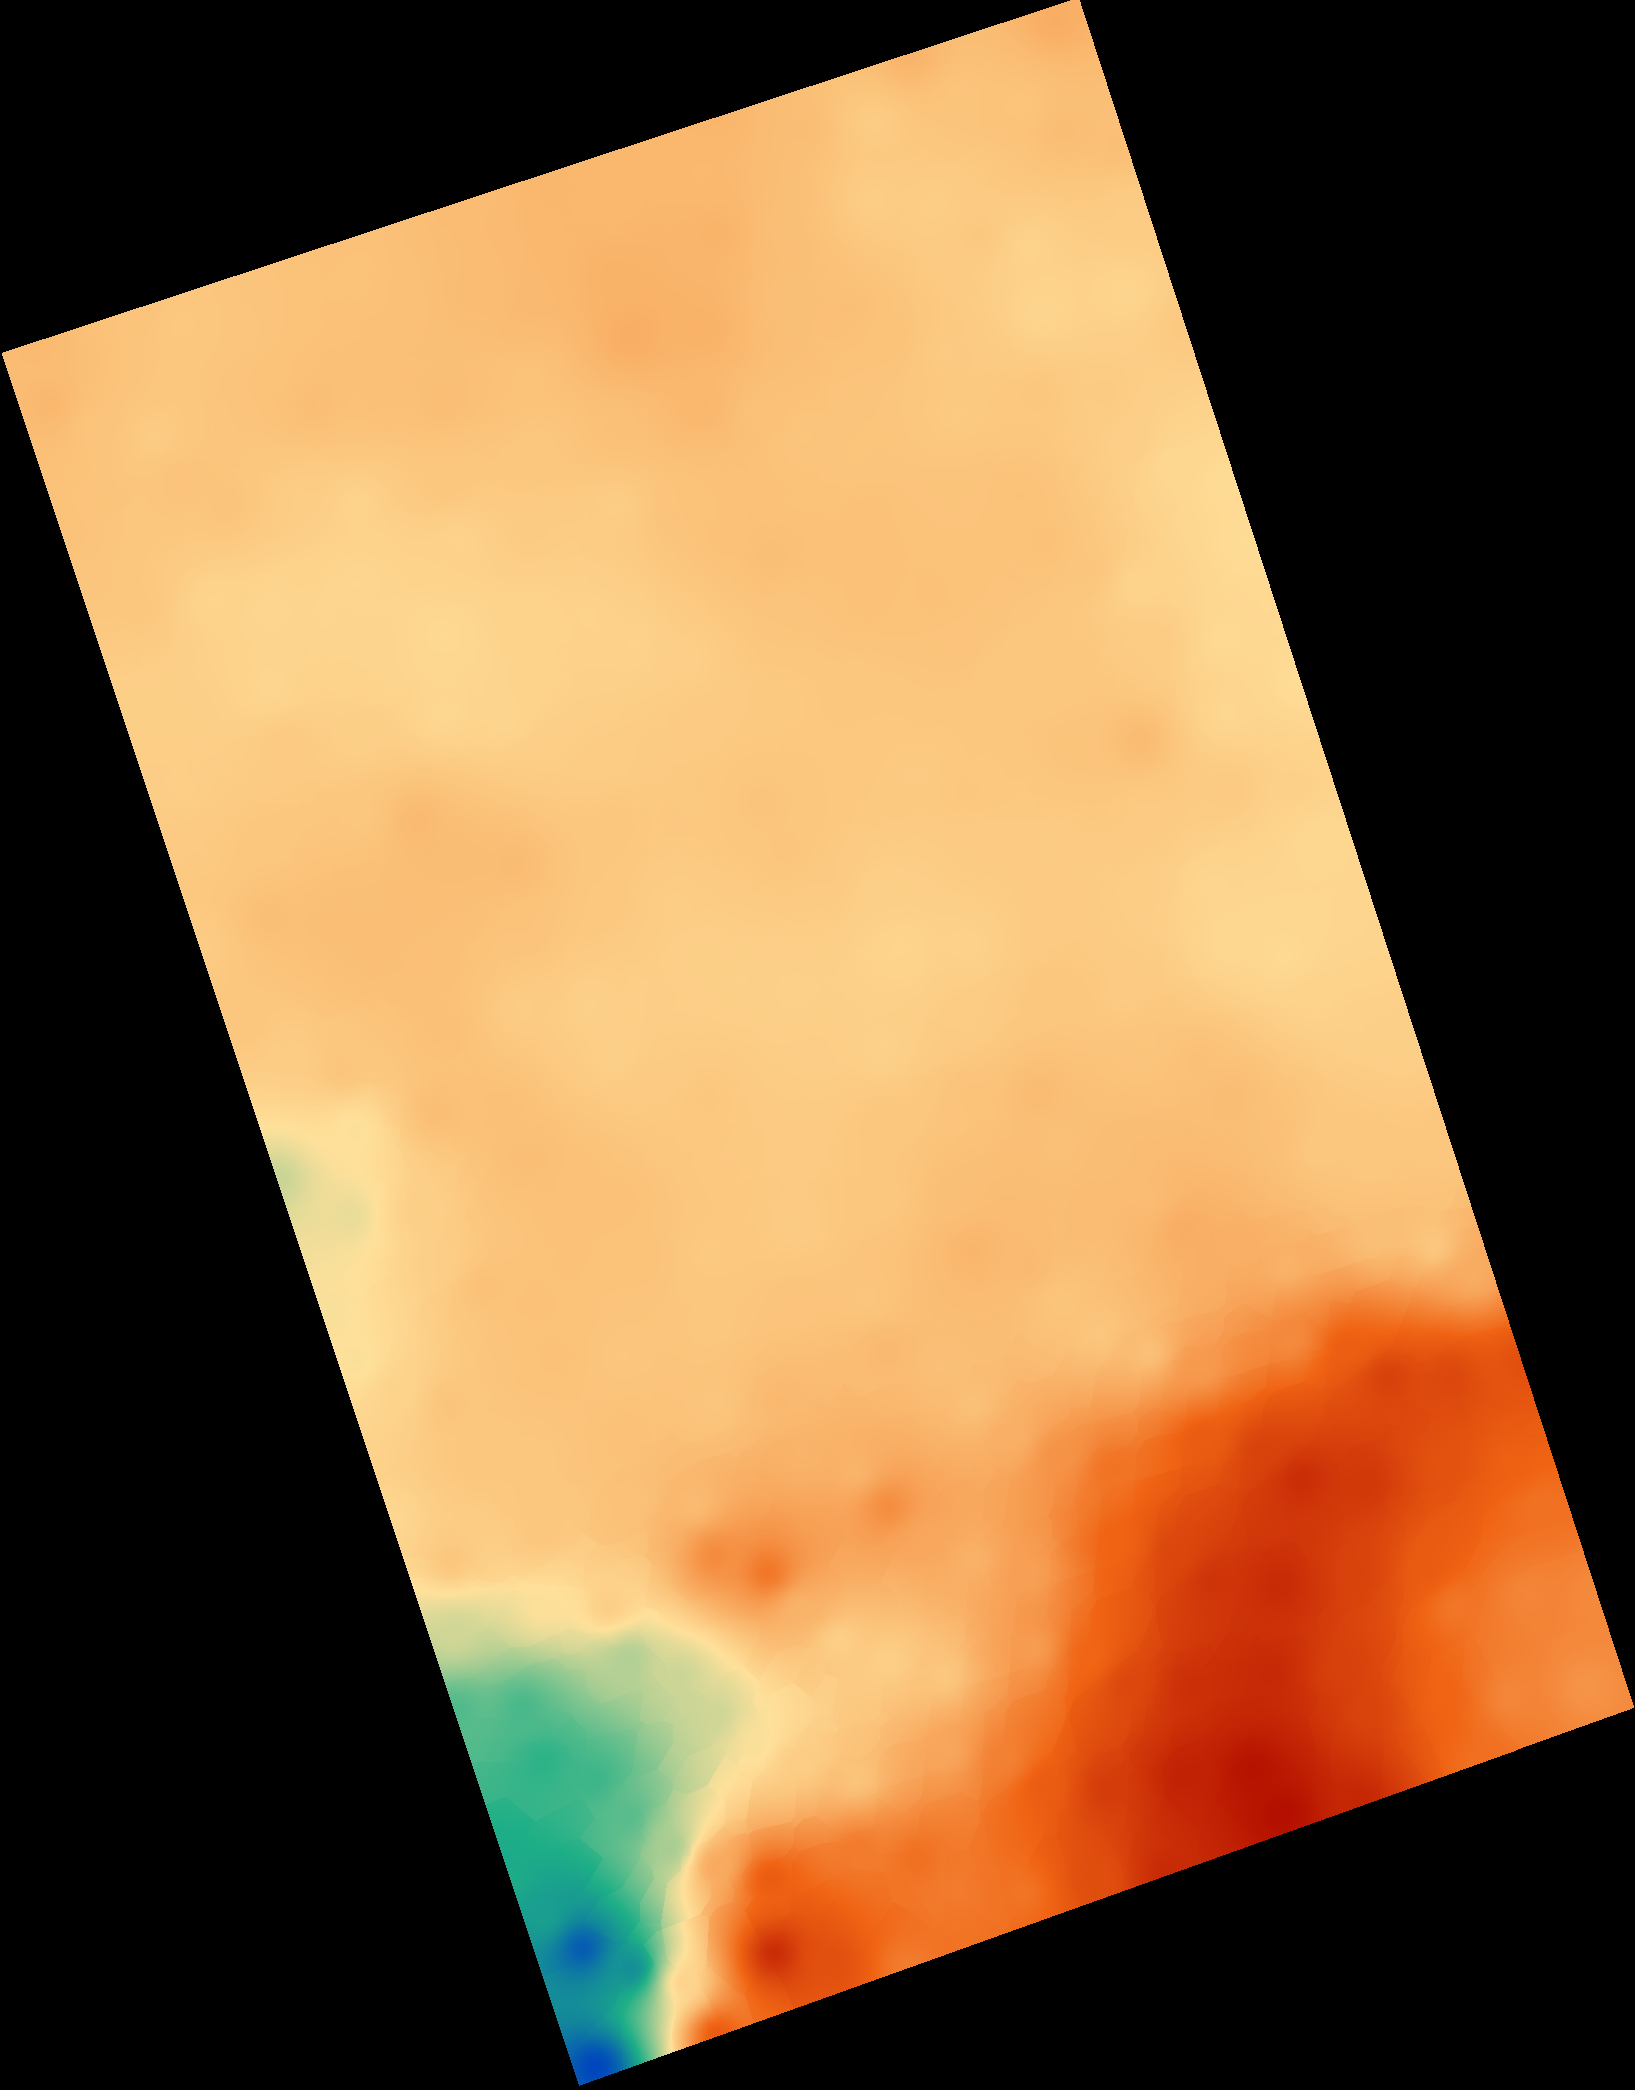
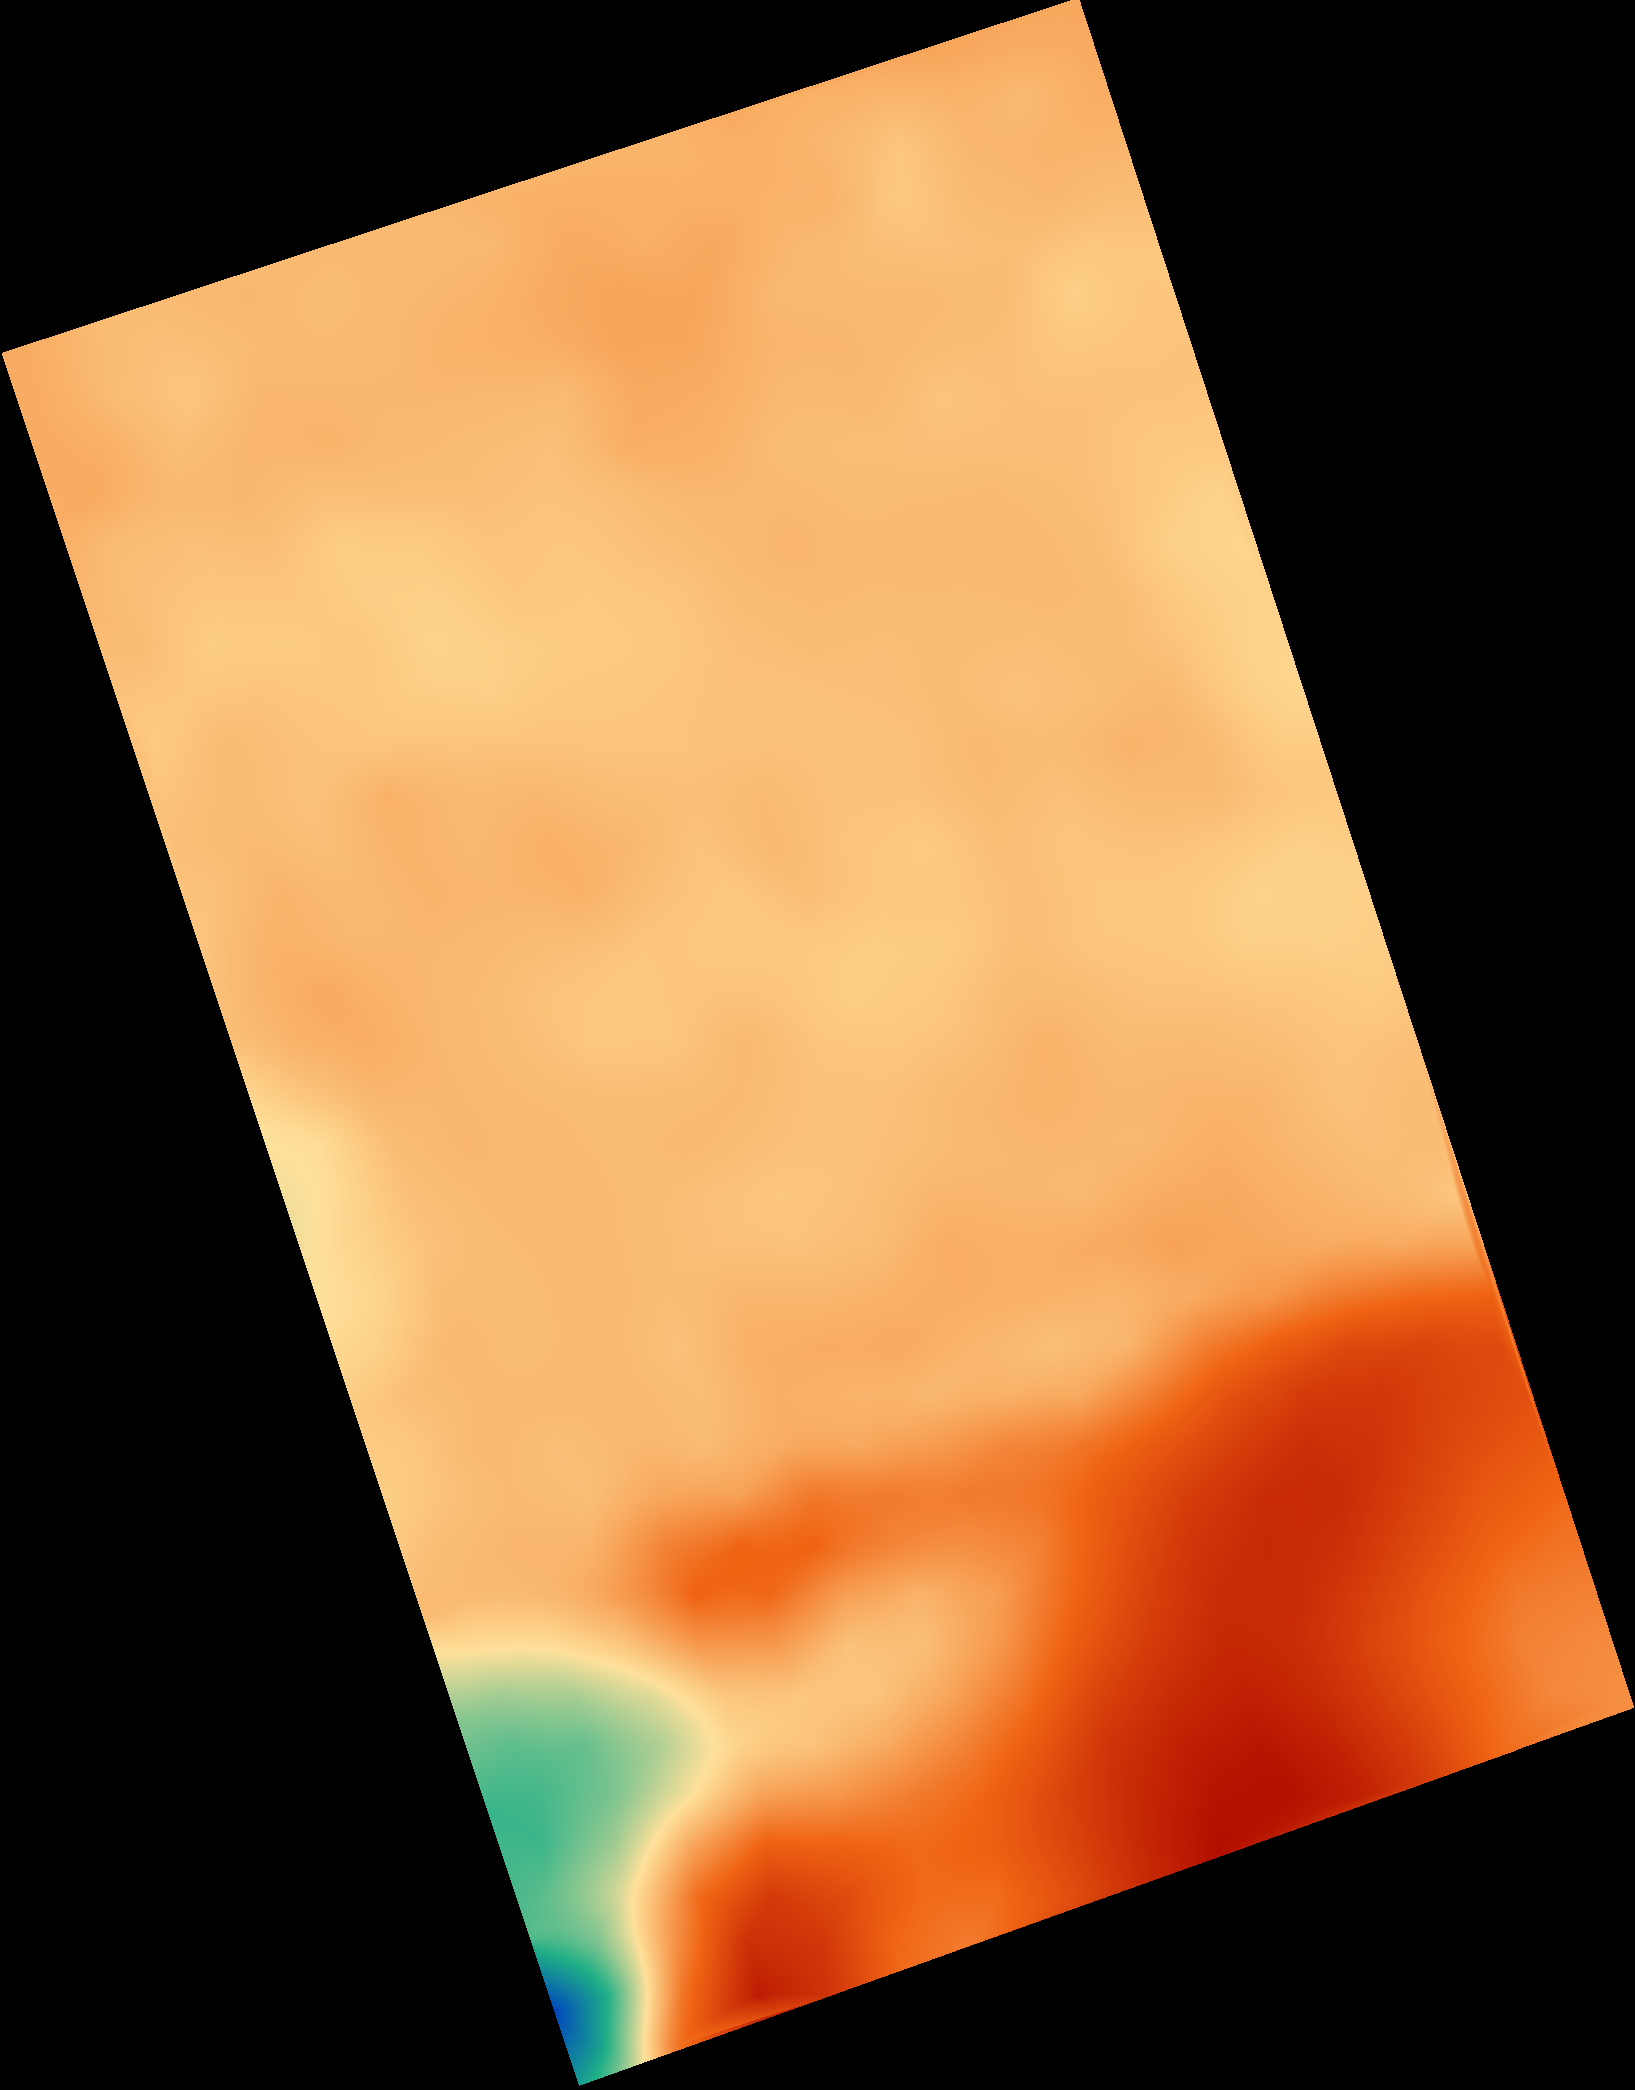
Cambiando metodo interpolacion

diff --git a/simulations/src/processing/interpolation.rs b/simulations/src/processing/interpolation.rs
@@ -1,6 +1,7 @@
 use kiddo::KdTree;
 use kiddo::SquaredEuclidean;
 use kiddo::NearestNeighbour;
+use spade::{DelaunayTriangulation, FloatTriangulation, HasPosition, Point2, PositionInTriangulation, Triangulation};
 use crate::structs::depth_matrix::DepthMatrix;
 
 // ------------------------------------------------------------
@@ -11,6 +12,7 @@ use crate::structs::depth_matrix::DepthMatrix;
 pub enum InterpolationMethod {
     Idw,
     Kriging,
+    Tin,
 }
 
 pub fn interpolate(
@@ -22,6 +24,7 @@ pub fn interpolate(
     match method {
         InterpolationMethod::Idw     => interpolation_idw_kdtrees(measuring_points, matrix, geotiff),
         InterpolationMethod::Kriging => interpolation_kriging(measuring_points, matrix, geotiff),
+        InterpolationMethod::Tin     => interpolation_tin(measuring_points, matrix, geotiff),
     }
 }
 
@@ -73,7 +76,7 @@ fn compute_idw(
             return val;
         }
 
-        let weight = 1.0 / dist.powf(2.0);
+        let weight = 1.0 / dist.powf(1.0);
         weighted_sum += val * weight;
         weight_total += weight;
     }
@@ -283,4 +286,169 @@ pub fn interpolation_kriging(
     }
 
     result
+}
+// ------------------------------------------------------------
+//  TIN — Triangulated Irregular Network
+//
+//  Estrategia:
+//  1. Construir una triangulación de Delaunay con los puntos medidos.
+//  2. Para cada píxel dentro del convex hull → interpolación baricéntrica
+//     usando FloatTriangulation::barycentric_interpolation de spade.
+//  3. Para píxeles fuera del convex hull → fallback IDW con los 4
+//     vecinos más cercanos (evita dejar zonas en negro en los bordes).
+// ------------------------------------------------------------
+
+/// Vértice TIN: posición (x, y) en píxeles + profundidad z almacenada
+/// como dato adjunto.
+#[derive(Clone, Copy, Debug)]
+struct TinVertex {
+    position: Point2<f64>,
+    depth:    f64,
+}
+
+impl HasPosition for TinVertex {
+    type Scalar = f64;
+    fn position(&self) -> Point2<f64> {
+        self.position
+    }
+}
+
+use std::thread;
+
+// ... (Las importaciones y la inicialización de TIN se mantienen igual) ...
+
+pub fn interpolation_tin(
+    measuring_points: &[(usize, usize)],
+    matrix: &[Vec<f64>],
+    geotiff: &DepthMatrix,
+) -> Vec<Vec<f64>> {
+    let no_data = geotiff.no_data.unwrap_or(f64::MAX);
+    let mut result = vec![vec![0.0_f64; geotiff.width]; geotiff.height];
+
+    let (kdtree, depth_values, indices) = build_kdtree(measuring_points, matrix, no_data);
+
+    if depth_values.is_empty() {
+        return result;
+    }
+
+    let mut triangulation: DelaunayTriangulation<TinVertex> = DelaunayTriangulation::new();
+    for (i, &idx) in indices.iter().enumerate() {
+        let point = measuring_points[idx];
+        let vertex = TinVertex {
+            position: Point2::new(point.0 as f64, point.1 as f64),
+            depth: depth_values[i],
+        };
+        let _ = triangulation.insert(vertex);
+    }
+
+    if triangulation.num_inner_faces() == 0 {
+        return interpolation_kriging(measuring_points, matrix, geotiff);
+    }
+
+    let kriging_neighbors = 16; 
+
+    // --- 3. Interpolar cada píxel con std::thread ---------------------
+    
+    // Obtenemos la cantidad de hilos lógicos disponibles en la CPU (o 4 por defecto)
+    let num_threads = thread::available_parallelism().map(|n| n.get()).unwrap_or(4);
+    
+    // Calculamos cuántas filas procesará cada hilo
+    let rows_per_thread = (geotiff.height + num_threads - 1) / num_threads;
+
+    // Abrimos un "scope" para garantizar que los hilos mueran antes de que retorne la función
+    thread::scope(|s| {
+        
+        // .chunks_mut() es la clave: divide la matriz en bloques independientes 
+        // de filas para que cada hilo pueda escribir sin usar Mutex.
+        for (thread_id, chunk) in result.chunks_mut(rows_per_thread).enumerate() {
+            
+            // Calculamos en qué fila global arranca este bloque
+            let start_row = thread_id * rows_per_thread;
+
+            // Prestamos las variables al scope (necesario para el closure del hilo)
+            let kdtree_ref = &kdtree;
+            let depth_values_ref = &depth_values;
+            let indices_ref = &indices;
+            let triangulation_ref = &triangulation;
+            
+            // Creamos el Builder con un nombre, como en la diapositiva
+            let builder = thread::Builder::new()
+                .name(format!("kriging_worker_{}", thread_id));
+
+            // Usamos spawn_scoped en lugar de spawn regular
+            builder.spawn_scoped(s, move || {
+                
+                // Iteramos sobre el bloque de filas que le tocó a este hilo
+                for (local_j, row) in chunk.iter_mut().enumerate() {
+                    let global_j = start_row + local_j; // Reconstruimos la coordenada 'Y' real
+
+                    for i in 0..geotiff.width {
+                        if geotiff.data[global_j][i] == no_data {
+                            row[i] = no_data;
+                            continue;
+                        }
+                        if matrix[global_j][i] != 0.0 {
+                            row[i] = matrix[global_j][i];
+                            continue;
+                        }
+
+                        let query = Point2::new(i as f64, global_j as f64);
+
+                        match triangulation_ref.locate(query) {
+                            PositionInTriangulation::OutsideOfConvexHull(_)
+                            | PositionInTriangulation::NoTriangulation => {
+                                row[i] = kriging_fallback(
+                                    kdtree_ref, depth_values_ref, indices_ref, measuring_points, 
+                                    i as f64, global_j as f64, kriging_neighbors
+                                );
+                            }
+                            _ => {
+                                if let Some(z) = triangulation_ref
+                                    .natural_neighbor()
+                                    .interpolate(|v| v.data().depth, query) {
+                                    row[i] = z;
+                                } else {
+                                    row[i] = kriging_fallback(
+                                        kdtree_ref, depth_values_ref, indices_ref, measuring_points, 
+                                        i as f64, global_j as f64, kriging_neighbors
+                                    );
+                                }
+                            }
+                        }
+                    }
+                }
+            }).unwrap();
+        }
+    });
+
+    result
+
+    
+}
+
+// --- Helpers -----------------------------------------------
+
+/// Kriging local con los k vecinos más cercanos.
+/// Reemplaza al idw_fallback para suavizar los bordes y evitar el "efecto estrella".
+fn kriging_fallback(
+    kdtree: &KdTree<f64, 2>,
+    values: &[f64],
+    indices: &[usize],
+    measuring_points: &[(usize, usize)],
+    x: f64,
+    y: f64,
+    k: usize,
+) -> f64 {
+    let neighbours = kdtree.nearest_n::<SquaredEuclidean>(&[x, y], k);
+    
+    if neighbours.is_empty() {
+        return 0.0;
+    }
+    
+    // Si caemos exactamente sobre un punto medido, evitamos invertir la matriz
+    if neighbours[0].distance == 0.0 {
+        return values[neighbours[0].item as usize];
+    }
+    
+    compute_kriging(&neighbours, values, indices, measuring_points)
 }

diff --git a/simulations/src/processing/measuring/points.rs b/simulations/src/processing/measuring/points.rs
@@ -5,10 +5,10 @@ pub fn find_measuring_points(
     distance_between_points: f64,
     matrix: &DepthMatrix,
 ) -> Vec<(usize, usize)> {
-    let distance_between_points_scaled = calculate_effective_measurement_distance(
-        &distance_between_points,
-        &matrix.size_x,
-    );
+    // let distance_between_points_scaled = calculate_effective_measurement_distance(
+    //     &distance_between_points,
+    //     &matrix.size_x,
+    // );
 
     let mut measuring_points: Vec<(usize, usize)> = Vec::new();
     let mut current_point = &path[0];
@@ -20,8 +20,8 @@ pub fn find_measuring_points(
         let current_distance = calculate_distance_between_points(current_point, next_point, matrix);
         distance_progress += current_distance;
 
-        if distance_progress >= distance_between_points_scaled {
-            distance_progress -= distance_between_points_scaled;
+        if distance_progress >= distance_between_points {
+            distance_progress -= distance_between_points;
             measuring_points.push(*next_point);
         }
         current_point = next_point;

diff --git a/simulations/src/main.rs b/simulations/src/main.rs
@@ -16,7 +16,7 @@ fn main() {
     // --- Recorrido ---
     let path = processing::routing::generate_route(
         &matrix,
-        40.0,  // azimut
+        90.0,  // azimut
         10.0,  // separación en metros
         1.0,   // offset GNSS
     );
@@ -28,7 +28,7 @@ fn main() {
         absortion_coefficient: 0.0,
         max_limit: 100.0,
         min_limit: 0.0,
-        pulse_repetition_interval: 100.0,
+        pulse_repetition_interval: 15000.0,
         pulse_length: 1,
         uses_high_frecuency: true,
         transmited_potency: 220.0,
@@ -86,7 +86,7 @@ fn main() {
     }
 
     let interpolacion = processing::interpolation::interpolate(
-        processing::interpolation::InterpolationMethod::Idw,
+        processing::interpolation::InterpolationMethod::Tin,
         &points_to_measure,
         &measurements_ideal,
         &matrix,

diff --git a/simulations/src/processing/measuring/beam.rs b/simulations/src/processing/measuring/beam.rs
@@ -122,7 +122,7 @@ fn get_points_perpendicular_to_this(
 
 fn calculate_covered_radius(current_point: &(usize, usize), angle_deg: f64, matrix: &DepthMatrix) -> f64 {
     let z = matrix.data[current_point.1][current_point.0];
-    let a = z * (angle_deg).tan();
+    let a = z * (angle_deg.to_radians()/2.0).tan();
     a.abs()
 }
 
